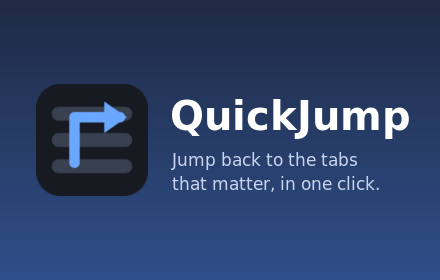
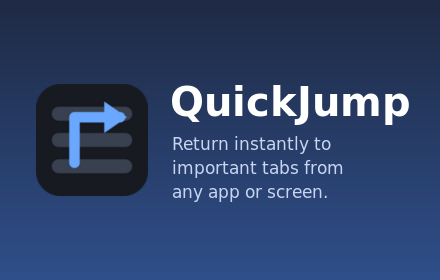
Rename to "QuickJump – Return instantly to important tabs from any app or screen"
Group the context menu entries under an explicit "QuickJump" parent, so
Chrome does not title that submenu with the long store name.

Changed region(s): [[0.3841, 0.2857, 0.9455, 0.7143]]

diff --git a/background.js b/background.js
@@ -31,25 +31,32 @@ const DEFAULT_GEOM = { left: 60, top: 60, width: 280, height: 200 };
 const MENU_ADD = 'qj-add';
 const MENU_ADD_LINK = 'qj-add-link';
 const MENU_SHOW = 'qj-show';
+const MENU_ROOT = 'qj-root';
 const AGENT_ALARM = 'qj-agent';
 
 /* ------------------------------------------------------------------ menus */
 
 function buildMenus() {
   chrome.contextMenus.removeAll(() => {
+    // Chrome would group the entries under the manifest name, which is the
+    // long store title; group them under the short name instead.
+    chrome.contextMenus.create({ id: MENU_ROOT, title: 'QuickJump', contexts: ['all'] });
     chrome.contextMenus.create({
       id: MENU_ADD,
+      parentId: MENU_ROOT,
       title: 'Add to Quick Jump',
       contexts: ['page', 'selection', 'image', 'video', 'audio', 'editable'],
     });
     chrome.contextMenus.create({
       id: MENU_ADD_LINK,
+      parentId: MENU_ROOT,
       title: 'Add link to Quick Jump',
       contexts: ['link'],
     });
-    chrome.contextMenus.create({ id: 'qj-sep', type: 'separator', contexts: ['all'] });
+    chrome.contextMenus.create({ id: 'qj-sep', parentId: MENU_ROOT, type: 'separator', contexts: ['all'] });
     chrome.contextMenus.create({
       id: MENU_SHOW,
+      parentId: MENU_ROOT,
       title: 'Show Quick Jump bar',
       contexts: ['all'],
     });

diff --git a/site/index.html b/site/index.html
@@ -3,7 +3,7 @@
 <head>
   <meta charset="utf-8">
   <meta name="viewport" content="width=device-width, initial-scale=1">
-  <title>QuickJump — jump back to the tabs that matter</title>
+  <title>QuickJump – Return instantly to important tabs from any app or screen</title>
   <meta name="description" content="Pin tabs to an always-on-top floating bar and jump back to them with one click. A free, open-source Chrome extension with an optional desktop agent.">
   <meta property="og:title" content="QuickJump">
   <meta property="og:description" content="Pin tabs to an always-on-top floating bar and jump back to them with one click.">
@@ -149,7 +149,7 @@
       <a href="https://github.com/ryabenko-pro/quickjump">GitHub</a>
     </nav>
     <div class="hero-body">
-      <h1>Jump back to the tabs that matter, from any window</h1>
+      <h1>Return instantly to important tabs from any app or screen</h1>
       <p class="lead">Pin a call, a doc or a dashboard to a small bar that floats above every other app. One click, and Chrome takes you straight to that tab.</p>
       <div class="cta">
         <!-- Replace href with the Chrome Web Store listing once it is published. -->

diff --git a/store/listing.md b/store/listing.md
@@ -10,7 +10,7 @@ paste. Package: `scripts/package-extension.sh` →
 
 **Name** and **Summary** come from `manifest.json`:
 
-- Name: `QuickJump`
+- Name: `QuickJump – Return instantly to important tabs from any app or screen`
 - Summary (≤132 chars): `Pin tabs to an always-on-top floating bar and jump back to them with one click.`
 
 ---
